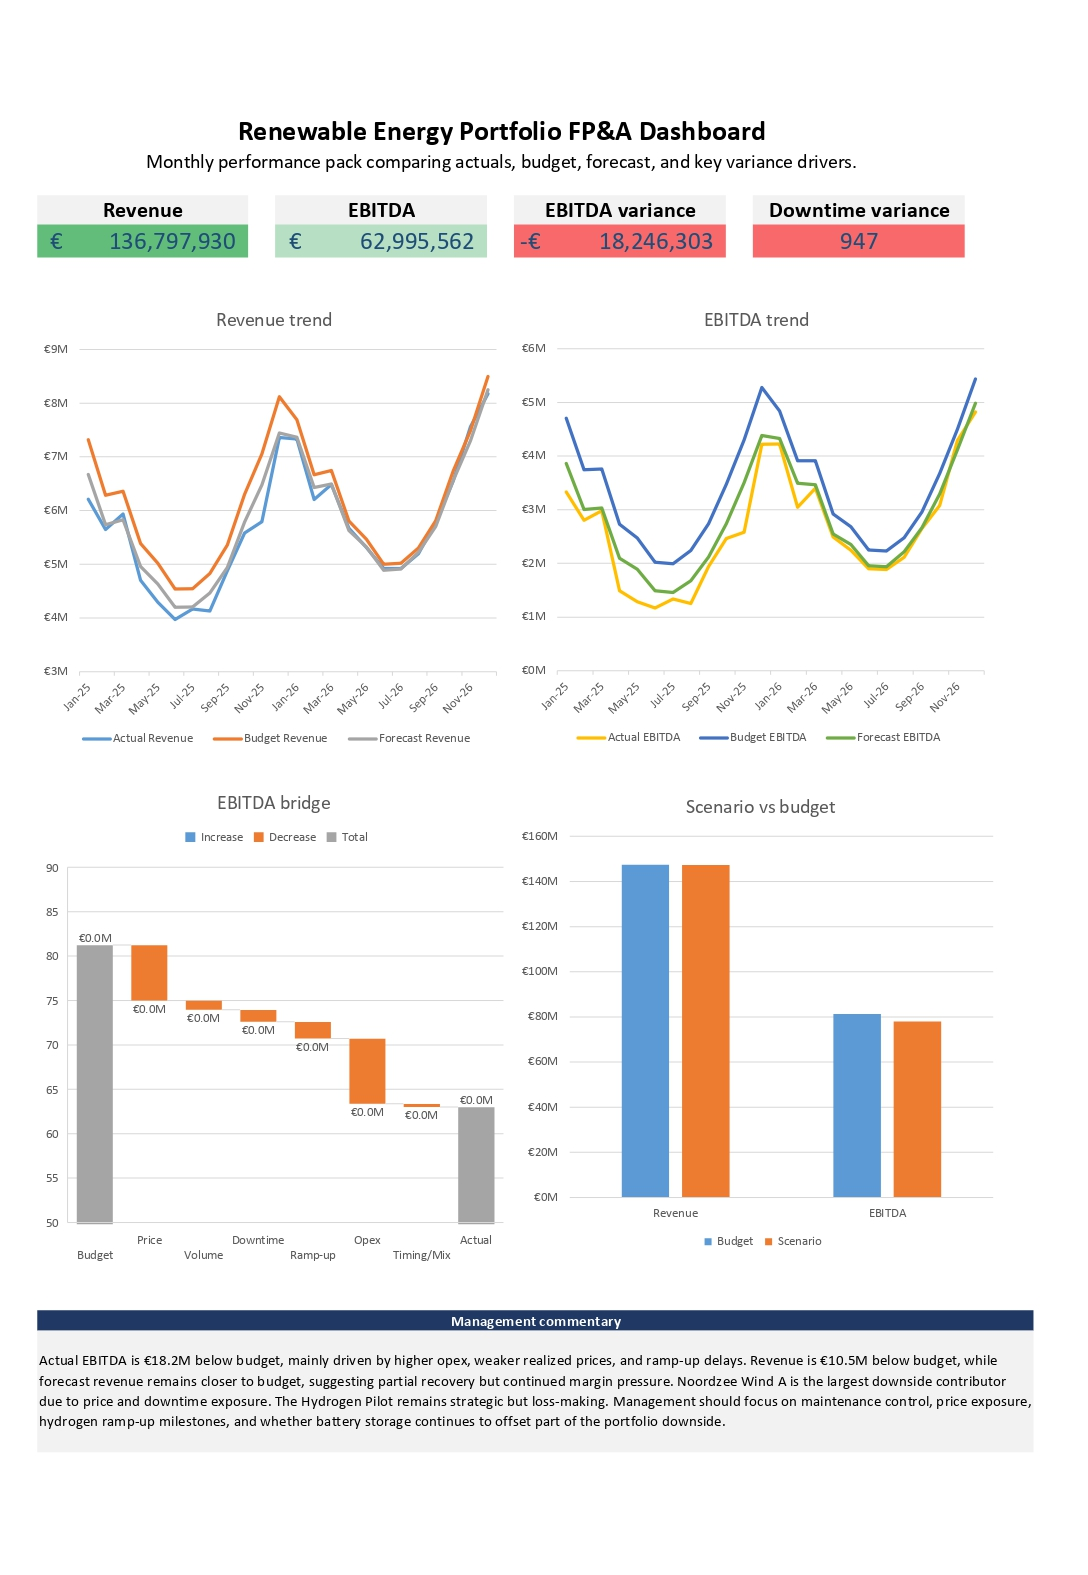
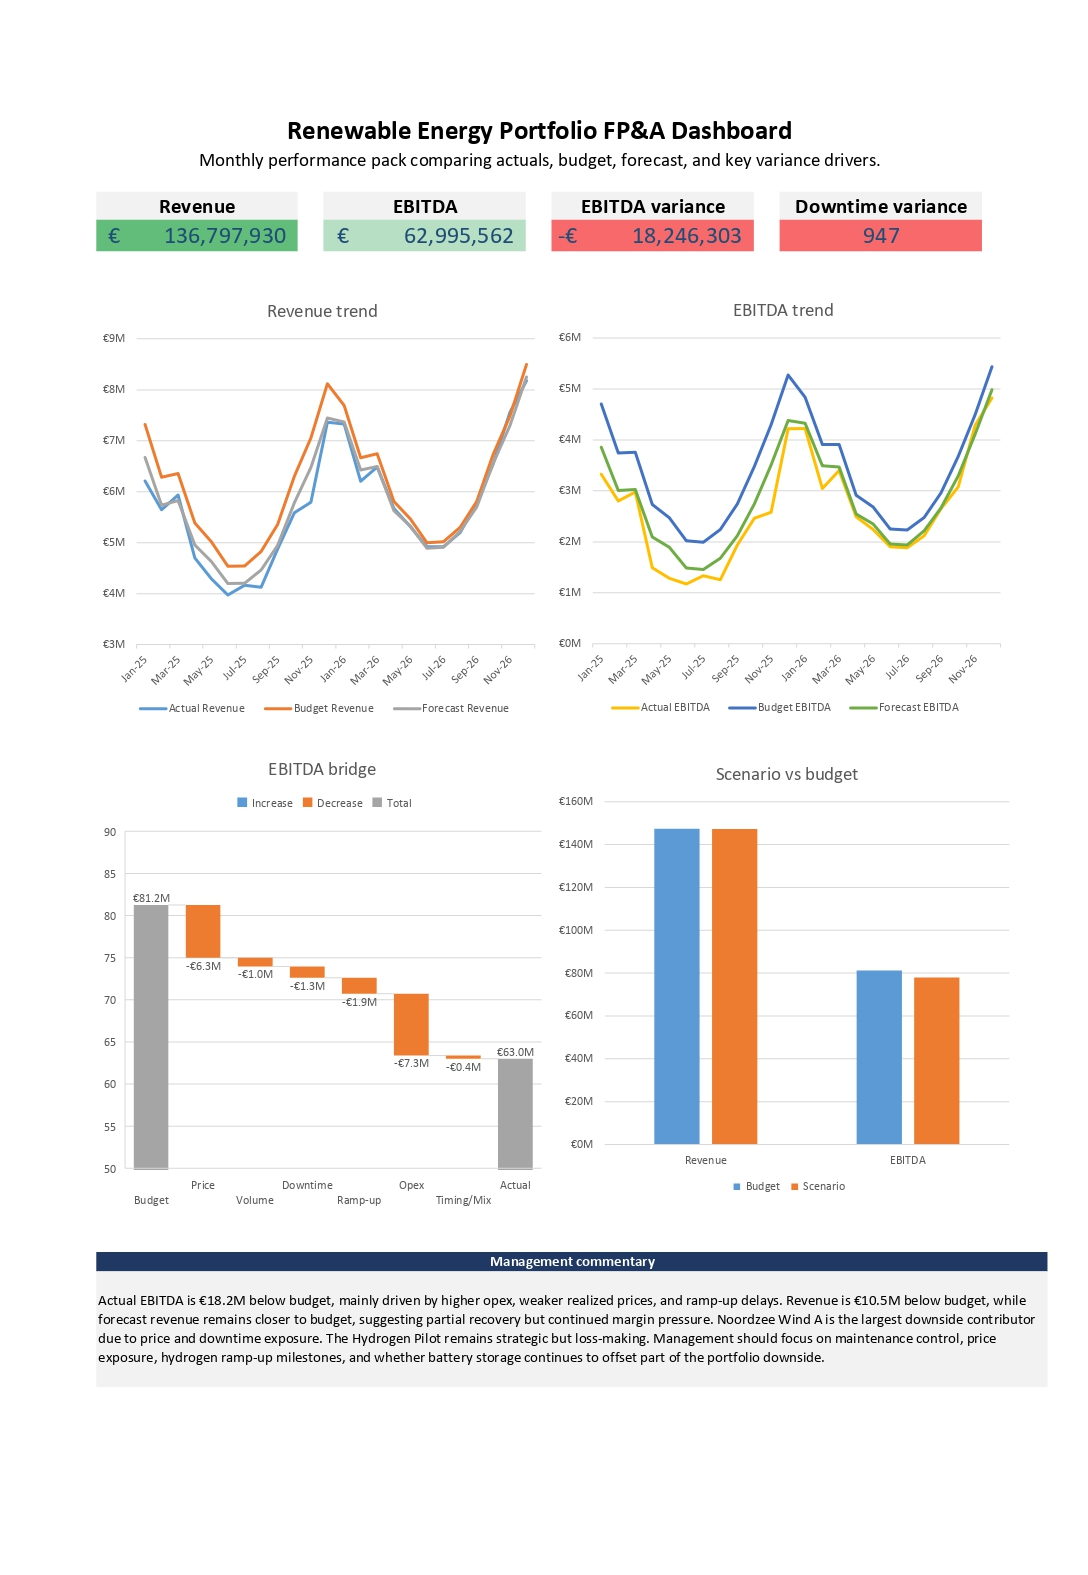
Improve README with analysis previews

diff --git a/README.md b/README.md
@@ -8,9 +8,42 @@ This project demonstrates a junior analyst-style monthly performance pack using 
 
 ![Management dashboard](screenshots/management_dashboard.jpg)
 
+## Analysis previews
+
+### EBITDA variance bridge
+
+![EBITDA bridge](screenshots/ebitda_bridge.jpg)
+
+### Scenario model
+
+![Scenario model](screenshots/scenario_model.jpg)
+
 ## Project overview
 
 The workbook compares actuals, budget, and forecast performance across a synthetic renewable energy portfolio. It covers revenue, EBITDA, capex, production, downtime, availability, and key variance drivers.
+
+The goal is to show how raw operational and financial data can be turned into a structured monthly performance pack for management review.
+
+## What this demonstrates
+
+This project was built to show practical Excel-based finance and business control skills, including:
+
+- Importing and structuring multiple CSV datasets with Power Query
+- Building a combined actuals, budget, and forecast performance model
+- Creating portfolio-level and asset-level summaries with structured formulas
+- Explaining EBITDA variance through a budget-to-actual bridge
+- Testing Downside, Base, and Upside assumptions through a scenario model
+- Turning analysis into a management dashboard and written commentary pack
+
+## Business questions answered
+
+The workbook is designed to answer:
+
+- How is the renewable energy portfolio performing against budget and forecast?
+- Which assets are driving revenue and EBITDA variance?
+- What explains the gap between budget EBITDA and actual EBITDA?
+- How do price, volume, opex, downtime, and ramp-up assumptions affect performance?
+- What should management monitor next?
 
 ## Key features
 
@@ -42,7 +75,9 @@ renewable-energy-fpna-performance-model/
 ├── excel/
 │   └── renewable_energy_fpna_model.xlsx
 ├── screenshots/
-│   └── management_dashboard.jpg
+│   ├── management_dashboard.jpg
+│   ├── ebitda_bridge.jpg
+│   └── scenario_model.jpg
 ├── README.md
 └── README_data_notes.md
 ```
@@ -50,5 +85,3 @@ renewable-energy-fpna-performance-model/
 ## Synthetic data note
 
 This project uses synthetic data created for portfolio demonstration purposes. Figures are illustrative and do not represent any real company, project, or market recommendation.
-
-[def]: screenshots/management_dashboard.jpg
